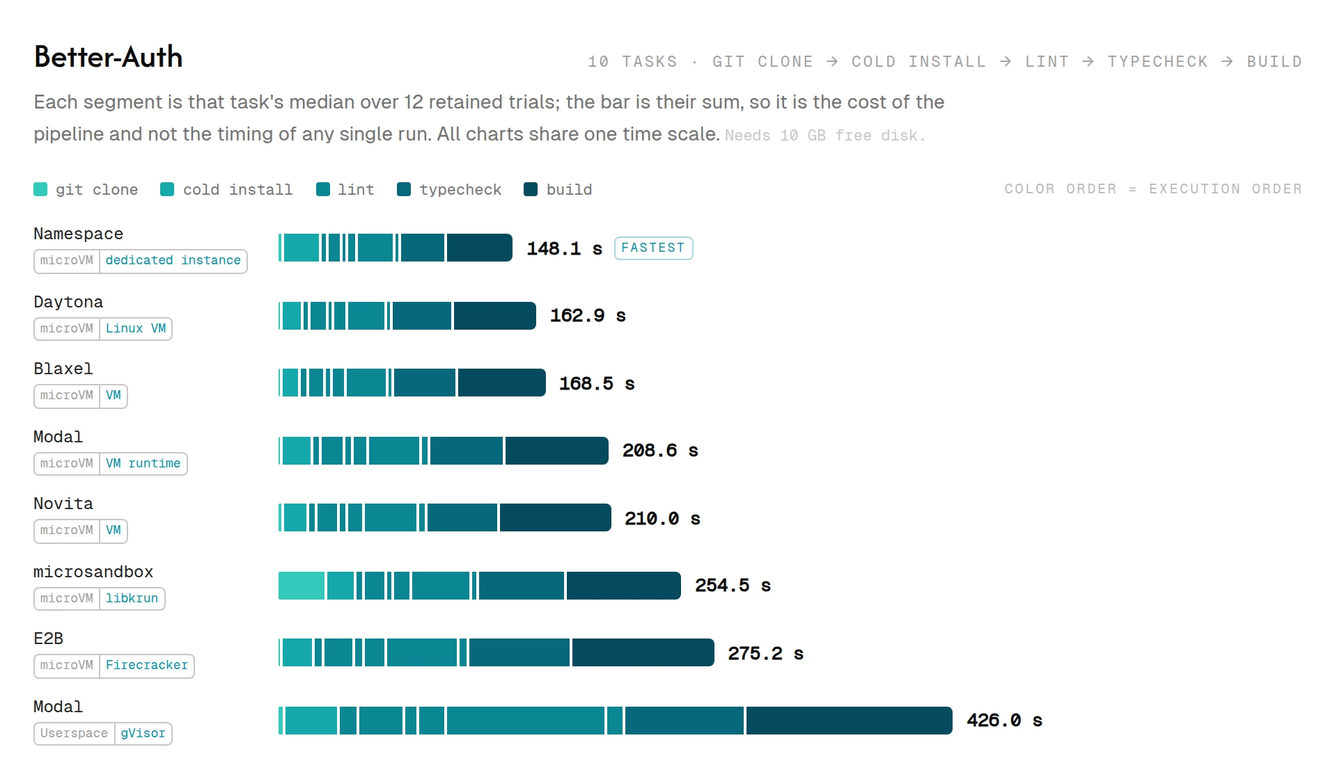
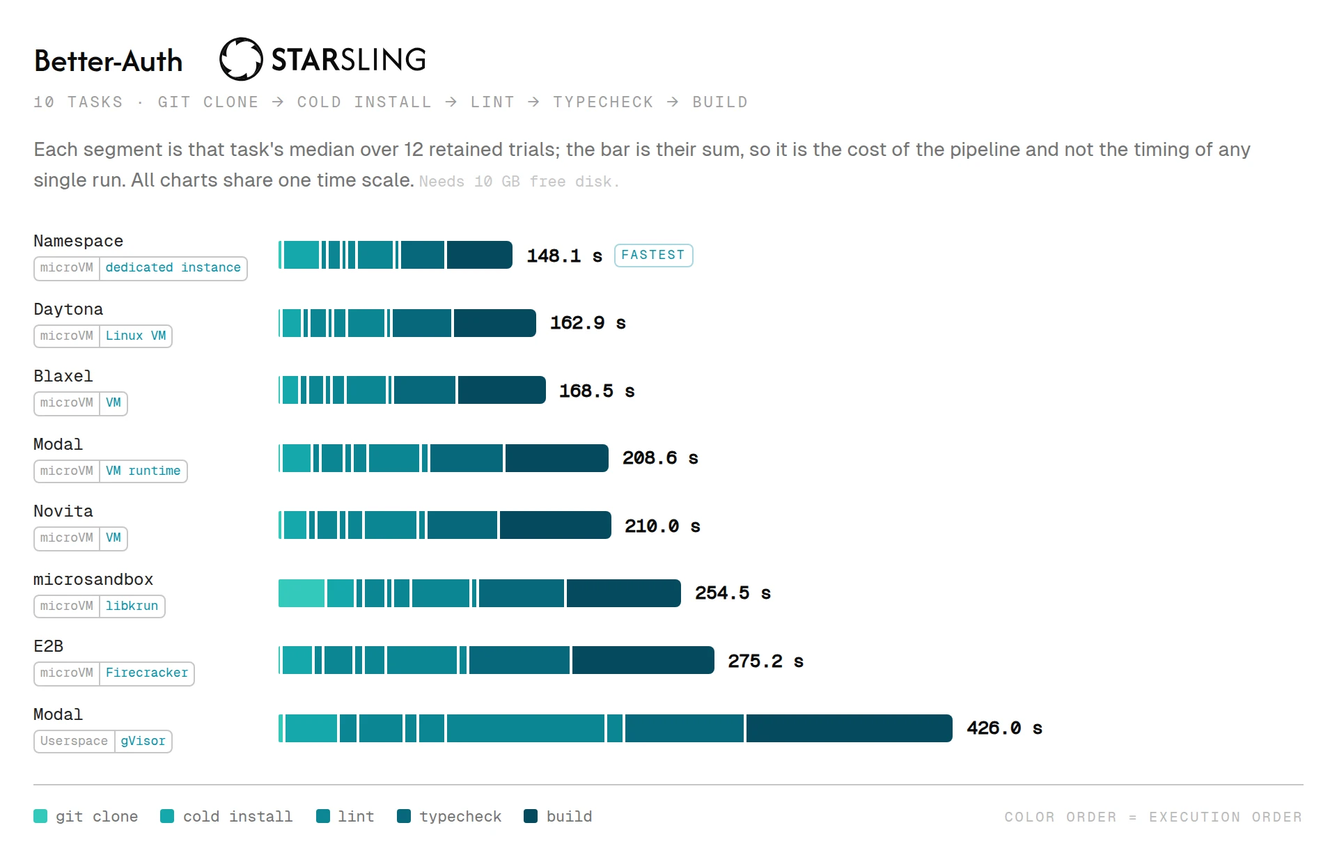
feat(figures): restructure the chart header and move the legend under the chart
The figure now reads top to bottom in one column: title, subtitle, note, chart,
legend. Four changes, all in the template.

The eyebrow ("10 tasks · git clone -> ...") was a right-aligned tail on the
title's row; it is now a left-aligned subtitle under the title, which is what it
has always been describing.

The note carried `max-width: 672px`. Every other block in the figure runs the
full 912 px content width, so the paragraph wrapped short and read as a column
that had lost its column. The measure is gone. The disk aside is now
`white-space: nowrap` — at full width a break became reachable through the
middle of it, and "Needs 30 GB" / "free disk." is two fragments, not one aside.

The legend moved from above the bars to under them, on a hairline rail. It is a
key, not a preamble: nothing in it means anything until you have seen a bar.

The StarSling wordmark joins the title on its row, sized from the artwork rather
than from its box. The letterforms are only 57/125 of the SVG's height (the disc
takes the rest), so matching the box to the 24 px title would set STARSLING at
~11 px; solving for cap height instead lands the two on the same optical size.
Alignment is `center`, not `baseline`, because Chrome takes a replaced element's
border-box bottom as its baseline — `align-items: baseline` hangs the box off
the title's baseline and floats the mark 10 px high, and a negative bottom
margin does not move it. Centring measures within half a pixel of one line.
[…]

diff --git a/packages/figures/src/chart/wordmark.ts b/packages/figures/src/chart/wordmark.ts
@@ -1,0 +1,59 @@
+/**
+ * The StarSling wordmark, inline in the chart document.
+ *
+ * INLINE SVG rather than a `data:` URI or an `<img>`, for the same reason the fonts are inlined:
+ * the document is the whole input to the screenshot, and a reference to anything outside it would
+ * make the figure a function of what the rendering machine could fetch. Inline also keeps the
+ * mark themeable — the paths carry `fill="currentColor"`, so the one place its colour is decided
+ * is the stylesheet, next to every other colour in the figure.
+ *
+ * The geometry is verbatim from the source artwork, including the `viewBox`; only the `fill`
+ * attributes were rewritten. It is intrinsically {@link WORDMARK_ASPECT} wide per unit tall, which
+ * is what lets the template size it from a height alone and never distort it.
+ *
+ * ASCII-only by construction (path data is digits, letters and punctuation), so it costs the
+ * document's `assertCovered` pass nothing — there is no glyph here for a font to have to draw.
+ */
+
+/** `508 / 125` — the source artwork's own ratio. The template sets a height; this gives width. */
+export const WORDMARK_ASPECT = 508 / 125;
+
+/**
+ * The mark's cap height as a fraction of the artwork's full height: the `STARSLING` letterforms
+ * span y≈34→91 of the 125-unit box. Sizing the SVG by its box would leave the wordmark reading
+ * far smaller than a title of nominally the same size — a chart title's cap height is what the
+ * eye actually matches — so the template solves for THIS instead, and the lockup lands optically
+ * level with the title beside it.
+ */
+export const WORDMARK_CAP_RATIO = 57 / 125;
+
+/**
+ * Where the `STARSLING` baseline sits inside the artwork's box, as a fraction of its height
+ * (y≈91 of 125). Exported because it is the only way to CHECK the lockup: the drawn baseline is
+ * `box.top + box.height × this`, which is what a browser-side assertion compares against the
+ * title's own baseline. Nothing in the stylesheet consumes it — see the header rule in `html.ts`
+ * for why the alignment is `center` rather than arithmetic over this number.
+ */
+export const WORDMARK_BASELINE_RATIO = 91 / 125;
+
+/** The artwork. `aria-hidden` because the figure is a raster: there is nothing here to announce,
+ *  and the alternative is a title element the screenshot renders as a tooltip target. */
+export const WORDMARK_SVG = `<svg class="wordmark" viewBox="0 0 508 125" fill="none" xmlns="http://www.w3.org/2000/svg" aria-hidden="true">
+<path d="M114.299 54.6671C110.063 25.7371 83.1694 5.7227 54.2393 9.95932C25.3093 14.2001 5.29075 41.0891 9.53154 70.0233C13.7682 98.9534 40.6613 118.972 69.5914 114.731C98.5256 110.49 118.54 83.6013 114.299 54.6671ZM109.32 63.2364C109.311 63.6788 109.295 64.1213 109.274 64.5637V64.5846C109.203 66.0914 109.052 67.5899 108.835 69.0633C108.835 69.0716 108.831 69.0758 108.831 69.08C106.657 83.7808 97.5405 96.57 84.551 103.607C84.5385 103.612 84.526 103.62 84.5176 103.624C84.5176 103.641 84.4592 103.67 84.3966 103.699C84.3799 103.708 84.359 103.716 84.3423 103.724C84.3298 103.728 84.3131 103.737 84.2964 103.745C84.2922 103.749 84.2839 103.749 84.2797 103.753C82.5517 104.676 80.761 105.49 78.9119 106.199C75.2555 107.598 71.3695 108.57 67.2998 109.042C66.8282 109.096 66.3565 109.146 65.889 109.188C65.8222 109.192 65.7513 109.196 65.6803 109.205C65.2629 109.238 64.8455 109.267 64.4406 109.292C63.9731 109.317 63.5182 109.338 63.0674 109.351C62.4747 109.368 61.8861 109.372 61.2976 109.363C61.0722 109.363 60.8468 109.359 60.6256 109.351C60.2624 109.347 59.9076 109.334 59.5529 109.317C59.1814 109.305 58.8099 109.284 58.4426 109.255C58.2631 109.246 58.0794 109.234 57.9 109.213C57.5493 109.188 57.1987 109.159 56.8481 109.117C56.51 109.088 56.1719 109.05 55.838 109.004C55.1326 108.917 54.4606 108.821 53.8261 108.712C53.5673 108.67 53.3169 108.629 53.0748 108.583C52.9037 108.554 52.7367 108.52 52.5697 108.487C52.2024 108.416 51.8476 108.345 51.5095 108.27C51.4511 108.257 51.3968 108.245 51.3384 108.232C51.2508 108.211 51.1589 108.19 51.0713 108.17C50.9043 108.132 50.7374 108.094 50.5787 108.057C50.5787 108.057 50.5662 108.057 50.562 108.057C50.3074 107.998 50.0612 107.936 49.8149 107.873C44.5598 106.529 40.4526 104.53 37.6477 102.906C37.7645 102.96 37.9023 103.019 38.0567 103.086C37.9065 103.002 37.7604 102.914 37.6101 102.827C37.4181 102.748 37.2261 102.66 37.0341 102.572C37.0466 102.589 37.0633 102.61 37.0758 102.626C35.4187 101.57 34.1373 100.681 33.2149 99.9092C33.2065 99.905 33.2023 99.9009 33.1982 99.8967C32.9018 99.6755 32.6096 99.4542 32.3216 99.2247C32.2548 99.1746 32.1881 99.1203 32.1213 99.066C31.8917 98.8866 31.6663 98.7029 31.4409 98.5109C31.3783 98.465 31.3199 98.4149 31.2573 98.3606C31.0653 98.2062 30.8774 98.0476 30.6896 97.8806C29.5209 96.8789 28.3981 95.8145 27.3337 94.7C27.1626 94.5247 26.9998 94.3494 26.8328 94.1741C26.7785 94.1115 26.7201 94.0489 26.6617 93.9863C26.478 93.7859 26.2944 93.5814 26.1149 93.3769C25.8978 93.139 25.6891 92.8927 25.4804 92.6464C25.0505 92.1414 24.6289 91.6238 24.2199 91.0979C24.0988 90.9434 23.9778 90.789 23.8651 90.6346C23.7357 90.4718 23.6105 90.3048 23.4936 90.1378C23.3058 89.8916 23.1263 89.6411 22.9468 89.3865C22.8091 89.1945 22.6755 89.0025 22.5419 88.8063C22.1746 88.2721 21.8198 87.7294 21.4776 87.1826C21.344 86.9698 21.2104 86.7527 21.0852 86.5399C21.0226 86.4439 20.9683 86.352 20.9141 86.256C20.8181 86.1016 20.7304 85.9471 20.6386 85.7927C20.5217 85.5924 20.4048 85.3878 20.2963 85.1833C20.2421 85.0915 20.192 84.9996 20.1419 84.912C20.0208 84.6949 19.904 84.4779 19.7913 84.2567C19.3989 83.5262 19.0316 82.7832 18.6851 82.0278C18.5933 81.8316 18.5015 81.6312 18.418 81.435C18.3429 81.2764 18.2719 81.1178 18.2051 80.955C18.1258 80.7797 18.0507 80.6044 17.9839 80.4249C17.9213 80.2914 17.867 80.1578 17.817 80.0242C17.7251 79.8155 17.6416 79.6027 17.5623 79.3898C17.5248 79.3021 17.4914 79.2103 17.4622 79.1226C17.362 78.8722 17.266 78.6218 17.1783 78.3713C16.9571 77.7619 16.7484 77.1442 16.5522 76.5222C16.5439 76.5055 16.5397 76.4888 16.5355 76.4721C16.4354 76.1591 16.3394 75.846 16.2517 75.5288C16.1599 75.2325 16.0764 74.9319 15.9971 74.6272C15.9887 74.6064 15.9846 74.5813 15.9804 74.5604C15.9637 74.5062 15.947 74.4519 15.9386 74.3977C15.8844 74.1931 15.8301 73.9886 15.78 73.7841C15.7049 73.4961 15.6381 73.2081 15.5713 72.9159C15.5254 72.7281 15.4837 72.5402 15.4461 72.3524C15.3793 72.0477 15.3167 71.743 15.2541 71.4341C15.1873 71.0918 15.1247 70.7496 15.0663 70.4031C15.0579 70.353 15.0496 70.303 15.0412 70.2529C14.9745 69.8647 14.9118 69.4723 14.8576 69.08C14.795 68.6667 14.7449 68.2535 14.6948 67.8403C14.461 65.8159 14.3567 63.804 14.3817 61.813C14.3901 61.3581 14.4026 60.9114 14.4193 60.4606C14.4819 58.9872 14.6113 57.5305 14.8075 56.0905C16.4437 44.1444 22.6588 33.4298 31.8249 25.9792C34.0664 24.1551 36.4873 22.5273 39.0627 21.1248C40.4651 20.361 41.9135 19.6639 43.4036 19.0461C43.604 18.9585 43.8002 18.8792 43.9922 18.7999C44.0673 18.7665 44.1382 18.7373 44.2134 18.708C44.5723 18.5661 44.9397 18.4242 45.307 18.2906C48.8131 16.9925 52.528 16.0868 56.4098 15.636C58.5845 15.3814 60.7425 15.277 62.8712 15.3187C63.0465 15.3229 63.2176 15.3271 63.3888 15.3313C63.8229 15.3396 64.257 15.3605 64.6827 15.3855C64.9081 15.3981 65.1335 15.4106 65.3589 15.4273C65.3923 15.4273 65.4257 15.4314 65.4591 15.4356C65.6636 15.4481 65.8723 15.4648 66.0768 15.4857C66.248 15.4982 66.4233 15.5149 66.5944 15.5316C66.8073 15.5483 67.016 15.5692 67.2247 15.5984C67.4584 15.6193 67.6922 15.6485 67.9259 15.6777C68.2056 15.7111 68.4811 15.7445 68.7566 15.7862C69.1865 15.8488 69.6164 15.9156 70.0463 15.9908C70.1632 16.0116 70.2842 16.0325 70.4011 16.0534C70.5973 16.0868 70.7893 16.1202 70.9813 16.1619C71.1775 16.1953 71.3737 16.2329 71.5698 16.2746C71.7785 16.3163 71.9831 16.3623 72.1918 16.4082C72.4088 16.4541 72.6217 16.5 72.8387 16.5543C73.0558 16.6043 73.2728 16.6586 73.4899 16.7087C73.7028 16.763 73.9115 16.8172 74.1202 16.8715C74.3581 16.9341 74.596 16.9967 74.8297 17.0635C75.4851 17.2471 76.132 17.4433 76.779 17.652C77.067 17.748 77.3592 17.844 77.6472 17.9484C77.8809 18.0277 78.1147 18.1112 78.3484 18.1988C79.1164 18.4785 79.8761 18.779 80.6274 19.1004C80.8445 19.1922 81.0615 19.2841 81.2786 19.3801C82.4431 19.8976 83.5868 20.4611 84.7013 21.0664C84.8933 21.1707 85.0811 21.2751 85.2731 21.3836C85.8909 21.73 86.5044 22.089 87.1055 22.4647C88.4245 23.2828 89.7017 24.1635 90.9331 25.1026C90.9372 25.1068 90.9414 25.1151 90.9498 25.1151C91.2545 25.3489 91.5508 25.5826 91.8513 25.8206C91.9557 25.9124 92.0642 26 92.1686 26.0919C92.586 26.4341 92.995 26.7806 93.4041 27.1354C93.5752 27.2856 93.7463 27.4359 93.9133 27.5945C94.2514 27.8992 94.5895 28.2123 94.9192 28.5295C95.0361 28.638 95.1488 28.7465 95.2615 28.8634C95.37 28.9678 95.4786 29.0721 95.5871 29.1806C95.7499 29.3392 95.9127 29.5062 96.0796 29.6732C96.4094 30.0154 96.7391 30.366 97.0605 30.7167C97.2734 30.9504 97.4863 31.1842 97.695 31.4221C97.937 31.6934 98.175 31.973 98.4087 32.2527C98.655 32.5491 98.9012 32.8454 99.1392 33.1459C99.1517 33.1585 99.1642 33.1752 99.1767 33.1919C99.3312 33.3839 99.4856 33.5842 99.64 33.7804C99.9614 34.1936 100.27 34.611 100.575 35.0368C100.78 35.3206 100.984 35.6086 101.18 35.9008C101.218 35.9509 101.255 36.0051 101.285 36.0552C101.477 36.3307 101.664 36.6104 101.84 36.8942C102.32 37.6205 102.771 38.3635 103.2 39.1231C103.347 39.3736 103.493 39.6282 103.626 39.887C104.002 40.5673 104.361 41.2602 104.695 41.9614C105.108 42.8088 105.496 43.6728 105.855 44.5493C106.114 45.1838 106.356 45.8182 106.573 46.4402C106.657 46.6614 106.732 46.8784 106.803 47.0996C106.92 47.4336 107.024 47.7633 107.124 48.0889C107.208 48.356 107.287 48.6232 107.366 48.882C107.479 49.2451 107.583 49.6124 107.675 49.9797C107.688 50.0215 107.696 50.0632 107.708 50.1008C107.767 50.2928 107.817 50.4848 107.859 50.6768C107.917 50.9105 107.976 51.1443 108.03 51.3697C108.076 51.5324 108.113 51.6994 108.147 51.8622C108.151 51.8872 108.155 51.9081 108.163 51.9331C108.243 52.2921 108.318 52.6344 108.385 52.9641C108.493 53.4901 108.585 53.9742 108.66 54.4125C108.852 55.4685 108.956 56.2616 109.007 56.6748C109.015 56.7667 109.027 56.8627 109.027 56.8627C109.148 57.8895 109.228 58.8203 109.278 59.6509C109.265 59.6551 109.257 59.6592 109.249 59.6634C109.315 60.8488 109.336 62.0259 109.315 63.1946V63.2405L109.32 63.2364Z" fill="currentColor"/>
+<path d="M43.4029 19.042C42.013 19.6472 40.4394 20.4612 38.8073 21.5506C35.873 23.504 33.7735 25.6578 32.3627 27.365C32.3585 27.3524 32.3501 27.3357 32.346 27.3232C30.7849 29.3017 27.6168 33.9182 26.1977 40.6049C24.7952 47.2416 25.7886 52.7471 26.5483 55.6856C26.6136 55.9424 26.7105 56.3303 26.8075 56.9122C26.2256 56.7183 25.4498 56.4273 24.8328 56.1823L18.3589 53.4275C17.5142 53.0985 15.7947 52.3541 15.4954 52.2572C15.3076 53.2014 14.9416 55.1666 14.6523 57.7726C14.6941 57.1507 14.7567 56.5872 14.8235 56.0821H14.8068C16.443 44.1403 22.6581 33.4256 31.8242 25.975C34.0657 24.151 36.4866 22.5231 39.0619 21.1206C40.4644 20.3568 41.9128 19.6597 43.4029 19.042Z" fill="currentColor"/>
+<path d="M14.5819 55.6089C14.3986 57.1138 14.302 58.8828 14.4131 60.8419C14.6084 64.3616 15.3997 67.2634 16.1555 69.3451C16.1426 69.3424 16.124 69.3411 16.1111 69.3384C17.0244 71.6872 19.3962 76.759 24.4393 81.3735C29.4477 85.9483 34.6964 87.8844 37.6142 88.7201C37.8687 88.7941 38.2522 88.9072 38.8029 89.1188C38.3406 89.5219 37.6963 90.043 37.1722 90.4505L31.5145 94.6327C30.8026 95.1938 29.289 96.2982 29.0536 96.507C29.7722 97.1477 31.2801 98.4599 33.3794 100.031C32.8646 99.6795 32.4107 99.3398 32.0093 99.026L32.0008 99.0404C22.5388 91.5735 16.4567 80.7828 14.6845 69.1042C14.2493 66.2473 14.0742 63.3353 14.1717 60.4044C14.2247 58.8083 14.3586 57.2065 14.5819 55.6089Z" fill="currentColor"/>
+<path d="M16.0986 69.0841C15.2805 66.8384 14.6794 64.4134 14.3789 61.8088C14.3873 61.3538 14.3998 60.9072 14.4165 60.4564C14.4791 58.983 14.6085 57.5262 14.8047 56.0862L14.8214 56.082C14.7546 56.5871 14.692 57.1506 14.6502 57.7725C14.6502 57.7809 14.6502 57.7892 14.6502 57.8017C14.4916 59.9973 14.5375 62.8898 15.2763 66.1664C15.5101 67.2058 15.7897 68.1783 16.1028 69.0841H16.0986Z" fill="currentColor"/>
+<path d="M33.3961 100.136C34.621 101.029 36.1189 101.975 37.884 102.832C41.0531 104.376 43.9729 105.099 46.1591 105.453C46.1504 105.462 46.1402 105.478 46.1315 105.488C48.6278 105.834 54.2125 106.233 60.699 104.077C67.1339 101.931 71.3815 98.2899 73.5325 96.1487C73.7211 95.9625 74.0067 95.6827 74.4597 95.3048C74.5866 95.9049 74.7279 96.7214 74.8285 97.3776L75.7252 104.356C75.8685 105.251 76.0958 107.111 76.1634 107.418C77.0731 107.103 78.9536 106.425 81.3482 105.357C80.7905 105.635 80.2727 105.866 79.8032 106.064L79.8116 106.078C68.6815 110.705 56.2949 110.761 45.2322 106.62C42.5251 105.608 39.8966 104.343 37.3844 102.83C36.0162 102.006 34.6825 101.109 33.3961 100.136Z" fill="currentColor"/>
+<path d="M80.1873 105.76C81.5804 105.162 83.1582 104.356 84.7958 103.275C87.7403 101.337 89.8509 99.1939 91.2706 97.494C91.2747 97.5066 91.2829 97.5233 91.287 97.5358C92.8584 95.5655 96.0503 90.9655 97.5041 84.2862C98.941 77.6569 97.9761 72.1463 97.2317 69.2039C97.1677 68.9468 97.0728 68.5583 96.9788 67.976C97.5597 68.1729 98.334 68.4679 98.9498 68.7161L105.409 71.5045C106.252 71.8378 107.968 72.5911 108.267 72.6896C108.459 71.7463 108.836 69.7831 109.138 67.1786C109.093 67.8003 109.028 68.3635 108.958 68.8682L108.975 68.8682C107.277 80.8014 101.006 91.4838 91.8018 98.8867C89.5509 100.699 87.1216 102.314 84.539 103.704C83.1326 104.46 81.6806 105.15 80.1873 105.76Z" fill="currentColor"/>
+<path d="M108.989 68.5351C109.164 67.0294 109.252 65.2599 109.131 63.3014C108.918 59.7827 108.112 56.885 107.346 54.807C107.359 54.8097 107.377 54.8109 107.39 54.8136C106.465 52.4694 104.068 47.4097 99.0013 42.8206C93.9699 38.2712 88.7115 36.3616 85.7895 35.5406C85.5347 35.4679 85.1506 35.3567 84.5989 35.1479C85.0591 34.7425 85.7007 34.2182 86.2228 33.808L91.8593 29.5973C92.5684 29.0327 94.0764 27.9206 94.3107 27.7107C93.5889 27.0735 92.0744 25.769 89.9672 24.2086C90.4838 24.5574 90.9394 24.8949 91.3424 25.2065L91.3507 25.1921C100.85 32.6112 106.987 43.3711 108.818 55.0405C109.268 57.8952 109.457 60.8063 109.375 63.7376C109.33 65.334 109.204 66.9365 108.989 68.5351Z" fill="currentColor"/>
+<path d="M90.6026 24.8938C89.3831 23.9931 87.8911 23.0378 86.1313 22.1697C82.9719 20.6063 80.0567 19.866 77.8727 19.4985C77.8814 19.4886 77.8917 19.473 77.9005 19.4632C75.4064 19.1013 69.8242 18.6678 63.3245 20.7844C56.8764 22.8904 52.6065 26.5049 50.4422 28.6328C50.2525 28.8178 49.9651 29.0959 49.5098 29.4709C49.3867 28.8701 49.2504 28.0527 49.1539 27.3959L48.3003 20.4122C48.1626 19.5163 47.9468 17.655 47.881 17.3474C46.9695 17.6572 45.0848 18.3234 42.6837 19.3768C43.2431 19.1018 43.7623 18.8741 44.233 18.6792L44.2246 18.6648C55.3831 14.107 67.7699 14.1279 78.8068 18.3369C81.5075 19.3651 84.1282 20.6469 86.631 22.1751C87.994 23.0073 89.3222 23.9126 90.6026 24.8938Z" fill="currentColor"/>
+<path d="M152.617 90.2307C149.417 90.2307 146.395 89.6184 143.551 88.3939C140.746 87.1693 138.515 85.688 136.855 83.9498L139.522 73.0472C140.825 75.4173 142.702 77.4319 145.151 79.091C147.6 80.7106 150.207 81.5204 152.972 81.5204C155.303 81.5204 157.16 80.8687 158.542 79.5651C159.925 78.222 160.616 76.5826 160.616 74.647C160.616 73.1064 160.261 71.8424 159.55 70.8548C158.839 69.8672 158.009 69.0772 157.061 68.4846C156.113 67.8526 155.303 67.3786 154.632 67.0626L148.291 63.8629C146.672 63.0333 145.052 62.0457 143.433 60.9002C141.813 59.7151 140.45 58.214 139.344 56.3969C138.278 54.5403 137.744 52.2491 137.744 49.5235C137.744 46.6003 138.416 44.0326 139.759 41.8205C141.102 39.6084 142.978 37.89 145.388 36.6654C147.837 35.4014 150.662 34.7693 153.861 34.7693C156.942 34.7693 159.688 35.2829 162.098 36.3099C164.507 37.2975 166.443 38.364 167.904 39.5096L165.356 50.1753C163.934 48.2396 162.157 46.62 160.024 45.3165C157.891 44.0129 155.698 43.3611 153.446 43.3611C151.392 43.3611 149.793 43.9141 148.647 45.0202C147.541 46.0868 146.988 47.4298 146.988 49.0494C146.988 50.116 147.225 51.0443 147.699 51.8344C148.212 52.6244 148.864 53.3157 149.654 53.9082C150.484 54.4613 151.373 54.9748 152.321 55.4488L158.779 58.6485C159.767 59.1226 160.873 59.7546 162.098 60.5447C163.362 61.3347 164.586 62.342 165.771 63.5666C166.956 64.7517 167.924 66.2133 168.675 67.9514C169.465 69.65 169.86 71.6843 169.86 74.0545C169.86 77.1357 169.129 79.9008 167.667 82.35C166.245 84.7596 164.25 86.6755 161.683 88.0976C159.155 89.5197 156.133 90.2307 152.617 90.2307Z" fill="currentColor"/>
+<path d="M173.296 44.5462V35.8359H209.856V44.5462H196.524V89.1642H186.629V44.5462H173.296Z" fill="currentColor"/>
+<path d="M206.182 89.1642L229.41 33.999H229.528L252.815 89.1642H243.038L238.475 78.0837H220.166L215.604 89.1642H206.182ZM223.425 70.2623H235.217L232.432 63.5666C231.839 62.1445 231.286 60.7619 230.772 59.4188C230.259 58.0363 229.765 56.4364 229.291 54.6193C228.817 56.4364 228.323 58.0165 227.81 59.3596C227.336 60.7027 226.803 62.105 226.21 63.5666L223.425 70.2623Z" fill="currentColor"/>
+<path d="M260.022 89.1642V35.8359H275.546C279.299 35.8359 282.498 36.5864 285.145 38.0875C287.831 39.5491 289.885 41.5242 291.308 44.0129C292.73 46.462 293.441 49.1482 293.441 52.0714C293.441 54.8761 292.769 57.424 291.426 59.7151C290.122 61.9667 288.286 63.7839 285.915 65.1664L300.966 89.1642H290.241L277.087 67.8329H269.384V89.1642H260.022ZM269.384 59.7151H275.368C277.383 59.7151 279.022 59.3398 280.286 58.5893C281.59 57.8387 282.558 56.8709 283.19 55.6859C283.822 54.5008 284.138 53.296 284.138 52.0714C284.138 49.8987 283.328 48.1014 281.708 46.6793C280.089 45.2572 277.975 44.5462 275.368 44.5462H269.384V59.7151Z" fill="currentColor"/>
+<path d="M319.721 89.8752C316.561 89.8752 313.697 89.2432 311.13 87.9791C308.602 86.715 306.587 85.1744 305.086 83.3573L307.041 75.1803C308.147 77.3924 309.806 79.3873 312.019 81.1649C314.231 82.9425 316.877 83.8313 319.958 83.8313C322.763 83.8313 325.074 82.9425 326.891 81.1649C328.748 79.3873 329.676 77.1949 329.676 74.5878C329.676 72.6917 329.222 71.1313 328.313 69.9067C327.405 68.6822 326.378 67.7143 325.232 67.0033C324.086 66.2923 323.178 65.7787 322.506 65.4627L315.988 62.1445C314.961 61.5915 313.678 60.8212 312.137 59.8336C310.636 58.846 309.313 57.4832 308.167 55.7451C307.021 54.007 306.449 51.7554 306.449 48.9902C306.449 46.304 307.061 43.9141 308.286 41.8205C309.55 39.7269 311.288 38.0875 313.5 36.9025C315.751 35.7174 318.319 35.1248 321.203 35.1248C324.047 35.1248 326.555 35.6384 328.728 36.6654C330.901 37.653 332.599 38.6801 333.824 39.7466L331.868 47.9236C330.881 46.2645 329.419 44.7042 327.484 43.2426C325.548 41.781 323.356 41.0502 320.907 41.0502C318.536 41.0502 316.64 41.7612 315.218 43.1833C313.796 44.5659 313.085 46.2843 313.085 48.3384C313.085 49.9185 313.441 51.2221 314.152 52.2491C314.902 53.2762 315.732 54.086 316.64 54.6785C317.588 55.2711 318.359 55.7254 318.951 56.0414L325.588 59.3596C326.378 59.7546 327.365 60.3076 328.55 61.0187C329.775 61.7297 330.98 62.6778 332.165 63.8629C333.35 65.0084 334.337 66.4305 335.127 68.1291C335.917 69.7882 336.312 71.8028 336.312 74.173C336.312 77.2147 335.582 79.9206 334.12 82.2907C332.698 84.6609 330.743 86.5175 328.254 87.8606C325.765 89.2037 322.921 89.8752 319.721 89.8752Z" fill="currentColor"/>
+<path d="M347.306 89.1642V35.8359H354.061V83.1203H372.548V89.1642H347.306Z" fill="currentColor"/>
+<path d="M383.597 89.1642V35.8359H390.352V89.1642H383.597Z" fill="currentColor"/>
+<path d="M449.696 90.9418L412.366 50.9456V89.1642H405.967V34.0583L443.297 74.0545V35.8359H449.696V90.9418Z" fill="currentColor"/>
+<path d="M488.507 90.2307C484.636 90.2307 481.022 89.5197 477.664 88.0976C474.306 86.636 471.344 84.6411 468.776 82.113C466.248 79.5453 464.273 76.6024 462.851 73.2842C461.428 69.9265 460.717 66.3318 460.717 62.5C460.717 58.6683 461.428 55.0933 462.851 51.7751C464.312 48.4174 466.307 45.4745 468.835 42.9463C471.403 40.3787 474.365 38.3838 477.723 36.9617C481.081 35.5001 484.695 34.7693 488.567 34.7693C492.359 34.7693 495.914 35.4804 499.232 36.9025C502.55 38.285 505.474 40.2009 508.002 42.6501L506.046 50.8271C504.229 47.9039 501.78 45.5732 498.699 43.8351C495.657 42.0575 492.28 41.1687 488.567 41.1687C484.656 41.1687 481.12 42.1365 477.96 44.0721C474.84 45.9683 472.351 48.5359 470.494 51.7751C468.638 54.9748 467.709 58.5498 467.709 62.5C467.709 66.3713 468.618 69.9265 470.435 73.1657C472.292 76.4049 474.78 78.9923 477.901 80.9279C481.061 82.8635 484.597 83.8313 488.507 83.8313C490.719 83.8313 492.813 83.5746 494.788 83.061C496.803 82.508 498.64 81.7377 500.299 80.7501V66.7663H485.604V60.7224H506.817V84.1869C504.407 86.2015 501.602 87.7223 498.403 88.7494C495.242 89.7369 491.944 90.2307 488.507 90.2307Z" fill="currentColor"/>
+</svg>`;

diff --git a/packages/figures/src/chart/html.ts b/packages/figures/src/chart/html.ts
@@ -19,6 +19,7 @@
 import { pageColors } from "../page-theme.ts";
 import { assertCovered, fontFaceCss } from "./fonts.ts";
 import type { PipelineChartModel } from "./model.ts";
+import { WORDMARK_ASPECT, WORDMARK_CAP_RATIO, WORDMARK_SVG } from "./wordmark.ts";
 
 /** Canvas width in CSS px, padding included — every chart, fixed, so the three figures sit
  *  on the page as one column. 2× this is the committed PNG's pixel width. */
@@ -51,8 +52,17 @@ const SEGMENT_GAP = 2;
 const TOTAL_GAP = 10;
 /** `space-y-3` between bar rows. */
 const ROW_GAP = 12;
-/** `max-w-2xl` on the authored note. */
-const NOTE_WIDTH = 672;
+/**
+ * The wordmark's drawn height, solved from the title rather than guessed.
+ *
+ * The artwork is a lockup — a disc that fills its box, and letterforms that occupy the middle
+ * {@link WORDMARK_CAP_RATIO} of it — so matching its BOX to the title's 24 px would set
+ * `STARSLING` at about 11 px and read as a footnote beside the name. Matching cap height to cap
+ * height is what "the same size as the title" means to the eye, so that is what this solves:
+ * Afacad's caps run ~0.7 em, and dividing that through the artwork's own ratio lands the two sets
+ * of letterforms on the same optical size.
+ */
+const WORDMARK_HEIGHT = Math.round((24 * 0.7) / WORDMARK_CAP_RATIO);
 
 // Every stack ends on Geist before the generic: Geist Mono and Afacad lack `†` and `→`, and the
 // embedded Geist Sans subset has both — so the fallback glyph is a brand glyph, not a foreign
@@ -130,13 +140,23 @@ const STYLE = `
 * { box-sizing: border-box; }
 body { margin: 0; background: ${pageColors.bg}; }
 .figure { width: ${FIGURE_WIDTH}px; padding: ${PADDING}px; background: ${pageColors.bg}; }
-header { display: flex; align-items: baseline; justify-content: space-between; gap: ${COLUMN_GAP}px; margin: 0 0 6px; }
+/* CENTER, not baseline. An SVG is a replaced element and Chrome takes its BORDER-BOX BOTTOM as
+   its baseline, so \`align-items: baseline\` hangs the artwork's box off the title's baseline and
+   floats the letterforms 10 px above it — and a negative bottom margin does not move it, because
+   the box bottom is what is consulted. Centring the lockup on the title's line box instead puts
+   the two sets of letterforms within half a pixel of one line (measured, at these exact sizes). */
+header { display: flex; align-items: center; gap: 24px; margin: 0 0 4px; }
 h1 { margin: 0; font: 500 24px/32px ${HEADING}; color: ${pageColors.fg}; }
-.summary { margin: 0; text-align: right; font: 400 11px/16.5px ${MONO}; letter-spacing: 0.14em; text-transform: uppercase; color: ${pageColors.muted70}; }
-.note { margin: 0 0 20px; max-width: ${NOTE_WIDTH}px; font: 400 14px/22.75px ${SANS}; color: ${pageColors.muted}; }
+.wordmark { flex: 0 0 auto; width: ${px(WORDMARK_HEIGHT * WORDMARK_ASPECT)}; height: ${px(WORDMARK_HEIGHT)}; color: ${pageColors.fg}; }
+.summary { margin: 0 0 14px; font: 400 11px/16.5px ${MONO}; letter-spacing: 0.14em; text-transform: uppercase; color: ${pageColors.muted70}; }
+.note { margin: 0 0 24px; font: 400 14px/22.75px ${SANS}; color: ${pageColors.muted}; }
 .note code { font: 400 13px ${MONO}; }
-.note .disk { font: 400 11px ${MONO}; color: ${pageColors.muted40}; }
-.legend { display: flex; align-items: center; gap: ${COLUMN_GAP}px; margin: 0 0 ${COLUMN_GAP}px; padding: 0; list-style: none; font: 400 11px/16.5px ${MONO}; color: ${pageColors.muted}; }
+/* The disk aside wraps as ONE unit. It is a parenthetical in a different face at a different
+   size, so a line break through the middle of it ("Needs 30 GB" / "free disk.") reads as two
+   fragments rather than one aside — the full-width note made that break reachable. It is ~145 px
+   at its longest, so refusing to break it can never overflow a 912 px line. */
+.note .disk { white-space: nowrap; font: 400 11px ${MONO}; color: ${pageColors.muted40}; }
+.legend { display: flex; align-items: center; gap: ${COLUMN_GAP}px; margin: 22px 0 0; padding: 14px 0 0; border-top: 1px solid ${pageColors.muted40}; list-style: none; font: 400 11px/16.5px ${MONO}; color: ${pageColors.muted}; }
 .legend li { display: flex; align-items: center; gap: 6px; }
 .swatch { width: 10px; height: 10px; border-radius: 2px; }
 .legend-note { margin-left: auto; font: 400 10px/15px ${MONO}; letter-spacing: 0.14em; text-transform: uppercase; color: ${pageColors.muted50}; }
@@ -213,12 +233,13 @@ ${STYLE}
 </head>
 <body>
 <main class="figure">
-<header><h1>${escapeHtml(model.suiteName)}</h1><p class="summary">${escapeHtml(model.summary)}</p></header>
+<header><h1>${escapeHtml(model.suiteName)}</h1>${WORDMARK_SVG}</header>
+<p class="summary">${escapeHtml(model.summary)}</p>
 <p class="note">${inlineMarkdown(model.note)}${disk}</p>
-<ul class="legend">${legend}<li class="legend-note">${escapeHtml(model.legendNote)}</li></ul>
 <section>
 ${[...barRows, ...incompleteRows].join("\n")}
 </section>
+<ul class="legend">${legend}<li class="legend-note">${escapeHtml(model.legendNote)}</li></ul>
 </main>
 </body>
 </html>

diff --git a/packages/figures/src/chart/html.test.ts b/packages/figures/src/chart/html.test.ts
@@ -2,6 +2,7 @@ import { describe, expect, it } from "bun:test";
 import { FIXTURE } from "./__fixtures__/data.ts";
 import { pipelineChartHtml } from "./html.ts";
 import { buildPipelineChartModel } from "./model.ts";
+import { WORDMARK_ASPECT, WORDMARK_CAP_RATIO, WORDMARK_SVG } from "./wordmark.ts";
 
 const suite = FIXTURE.suites[0];
 if (!suite) throw new Error("fixture must carry a chartable suite");
@@ -89,12 +90,55 @@ describe("pipelineChartHtml", () => {
 		expect(html).toContain(`flex: 0 0 160px; min-width: 0;`);
 	});
 
-	it("runs the header and the legend to the figure's full width", () => {
-		// The eyebrow sits on the right edge and the legend note on the far end of the legend
-		// row, so the top of the figure spans the same width the bars are drawn across — before
-		// this, both stopped short and the longest bar read as overflowing the header.
-		expect(html).toContain("justify-content: space-between");
+	it("reads top to bottom: title, subtitle, note, bars, then the legend", () => {
+		// The document ORDER is the reading order, and the figure's is deliberate: the eyebrow is
+		// a subtitle under the title rather than a right-aligned tail on its row, and the legend
+		// is a footer under the chart rather than a preamble above it. Asserted as offsets
+		// because CSS cannot reorder what is not there — this is the structure, not the styling.
+		const at = (needle: string) => {
+			const index = html.indexOf(needle);
+			expect(index, `${needle} missing`).toBeGreaterThan(-1);
+			return index;
+		};
+		expect(at("<h1>")).toBeLessThan(at(`<p class="summary">`));
+		expect(at(`<p class="summary">`)).toBeLessThan(at(`<p class="note">`));
+		expect(at(`<p class="note">`)).toBeLessThan(at("<section>"));
+		expect(at("<section>")).toBeLessThan(at(`<ul class="legend">`));
+		// The subtitle is a SIBLING of the header, not a child: inside it, it would sit on the
+		// title's row again, which is the arrangement this replaced.
+		expect(html).toContain(`</h1>${WORDMARK_SVG}</header>\n<p class="summary">`);
+	});
+
+	it("lets the note run the full content width", () => {
+		// It used to carry `max-width: 672px` — a prose measure that left it wrapping short of
+		// every other block in the figure and reading as a column that had lost its column.
+		expect(html).not.toContain("max-width: 672px");
+		expect(html).toMatch(/\.note \{ margin: [^;]+; font:/);
+	});
+
+	it("keeps the legend note on the far end of its row", () => {
 		expect(html).toContain(".legend-note { margin-left: auto;");
+	});
+
+	it("carries the wordmark inline, with the artwork's own geometry", () => {
+		// Inline SVG, not a fetch: the whole point of the document is that it is self-contained.
+		expect(html).toContain(`<svg class="wordmark" viewBox="0 0 508 125"`);
+		expect(html).not.toContain("<image");
+		// Every path paints from `currentColor`, so the figure's palette is the only thing that
+		// decides the mark's colour — a hard-coded `black` would survive a theme change.
+		expect(WORDMARK_SVG).not.toContain("black");
+		expect(WORDMARK_SVG.match(/fill="currentColor"/g)?.length).toBe(17);
+	});
+
+	it("sizes the wordmark by cap height, so it reads level with the title", () => {
+		// Matching the artwork's BOX to the 24 px title would set `STARSLING` at ~11 px, because
+		// the letterforms are only WORDMARK_CAP_RATIO of the box — the disc takes the rest. The
+		// template solves for the letterforms instead; this pins the arithmetic, not the taste.
+		const height = Math.round((24 * 0.7) / WORDMARK_CAP_RATIO);
+		expect(height).toBe(37);
+		expect(html).toContain(
+			`.wordmark { flex: 0 0 auto; width: ${(height * WORDMARK_ASPECT).toFixed(2)}px; height: ${height.toFixed(2)}px;`,
+		);
 	});
 
 	it("badges exactly the fastest bar", () => {

diff --git a/packages/figures/README.md b/packages/figures/README.md
@@ -41,6 +41,7 @@ derivation over a Run (tables, coverage, economics) is its jurisdiction, not thi
 | `src/model.ts` | Run + registries → `RealworldFigureModel`. Which suites are chartable is decided here (≥2 environments completing every exercised task), and nowhere else. |
 | `src/chart/model.ts` | The view-model. **Every decision the picture makes** — sort order, badge, shared scale, disclosure rows — as plain data a unit test can assert on. The bulk of the tests. |
 | `src/chart/html.ts` | The template. Dumb on purpose: it knows widths and styles, and the one piece of arithmetic in it is `scaleFraction × TRACK_WIDTH`. |
+| `src/chart/wordmark.ts` | The StarSling artwork, inline SVG, painted from `currentColor` — the one brand asset in the document. Exports the ratios (`ASPECT`, `CAP_RATIO`, `BASELINE_RATIO`) the template sizes and aligns it by, so the header is arithmetic over the artwork rather than numbers somebody eyeballed. |
 | `src/chart/fonts.ts` | The faces, read from pinned npm packages (`@fontsource/*`) and inlined as `data:` URIs — the lockfile pins the glyphs like it pins code. Brand faces only: `assertCovered` fails the render on a character none of them can draw, rather than shipping a full Unicode fallback to hide it. |
 | `src/screenshot.ts` | The **only** impure module: `Bun.WebView` → CDP → PNG bytes. Returns bytes, never writes a file. |
 
